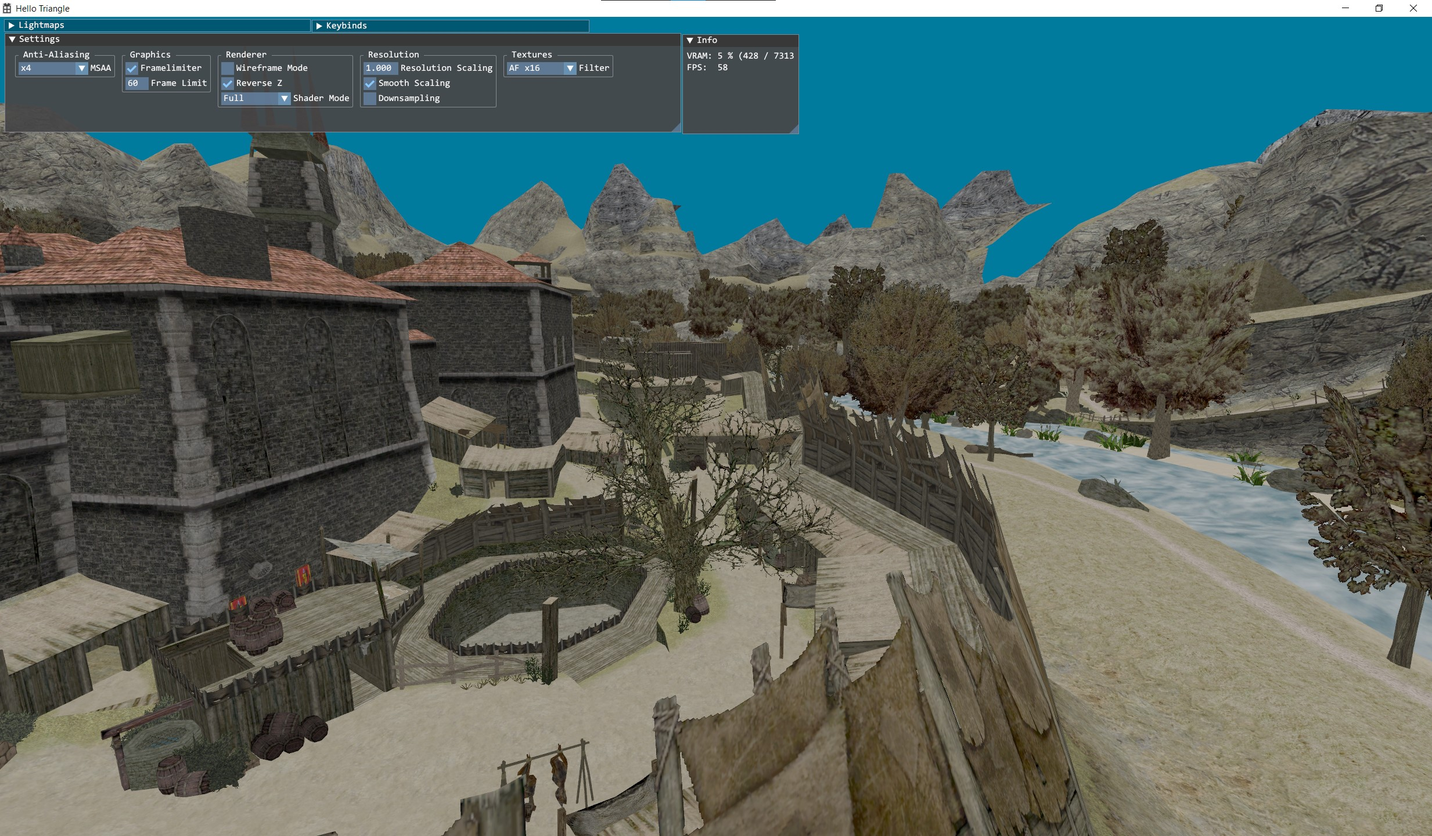
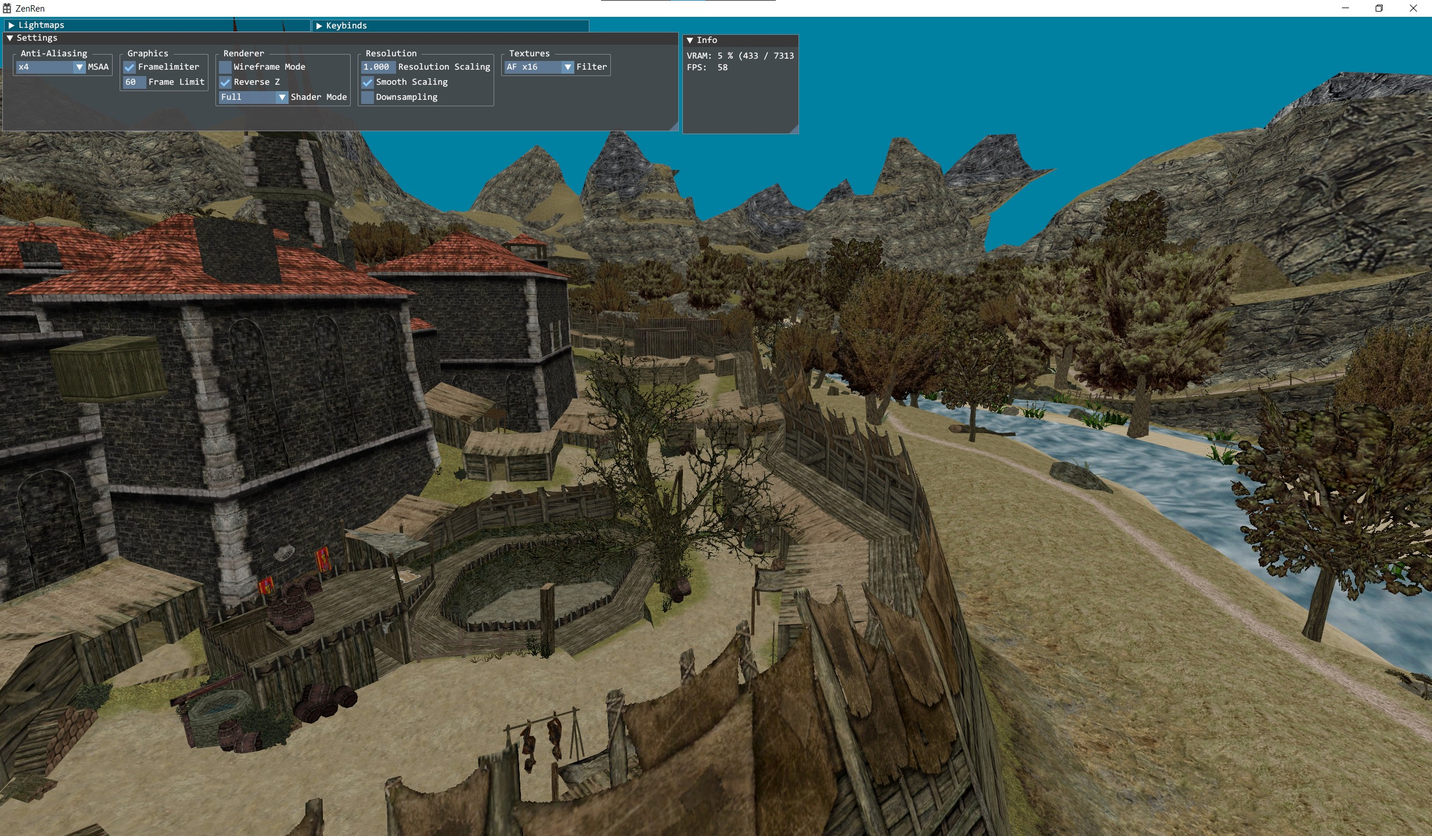
Fix Textures not being loaded as sRGB
- thanks again Andre :)

diff --git a/ZenRen/src/renderer/Texture.cpp b/ZenRen/src/renderer/Texture.cpp
@@ -76,7 +76,7 @@ namespace renderer {
 		metadata.arraySize = images.size();
 
 		// TODO
-		// It is unclear it MipMaps work here.
+		// It is unclear if MipMaps work here.
 		// We should instead write Image to DDS raw memory (see https://stackoverflow.com/questions/76144325/convert-any-input-dds-into-another-dds-format-in-directxtex)
 		// and then load raw memory with CreateDDSTextureFromMemory (see https://github.com/Microsoft/DirectXTK/wiki/DDSTextureLoader)
 
@@ -91,7 +91,15 @@ namespace renderer {
 		return resourceView;
 	}
 
-	Texture::Texture(D3d d3d, const std::string& sourceFile)
+	void createSetSrv(D3d d3d, const ScratchImage& image, const std::string& name, bool sRgb, ID3D11ShaderResourceView** ppSrv) {
+		auto sRgbFlag = sRgb ? DirectX::CREATETEX_FORCE_SRGB : DirectX::CREATETEX_IGNORE_SRGB;
+		auto hr = DirectX::CreateShaderResourceViewEx(
+			d3d.device, image.GetImages(), image.GetImageCount(), image.GetMetadata(),
+			D3D11_USAGE::D3D11_USAGE_DEFAULT, D3D11_BIND_SHADER_RESOURCE, 0, 0, sRgbFlag, ppSrv);
+		throwOnError(hr, name);
+	}
+
+	Texture::Texture(D3d d3d, const std::string& sourceFile, bool sRgb)
 	{
 		auto name = sourceFile;
 		util::asciiToLower(name);
@@ -101,7 +109,7 @@ namespace renderer {
 		TexMetadata metadata;
 
 		if (util::endsWith(name, ".tga")) {
-			hr = LoadFromTGAFile(sourceFileW.c_str(), &metadata, image);
+			hr = LoadFromTGAFile(sourceFileW.c_str(), DirectX::TGA_FLAGS_NONE, &metadata, image);
 			throwOnError(hr, name);
 		}
 		else if (util::endsWith(name, ".png")) {
@@ -111,11 +119,10 @@ namespace renderer {
 
 		createMipmapsIfMissing(&image, name);
 
-		hr = CreateShaderResourceView(d3d.device, image.GetImages(), image.GetImageCount(), image.GetMetadata(), &resourceView);
-		throwOnError(hr, name);
+		createSetSrv(d3d, image, name, sRgb, &resourceView);
 	}
 
-	Texture::Texture(D3d d3d, std::vector<uint8_t>& ddsRaw, bool isGothicZTex, const std::string& name)
+	Texture::Texture(D3d d3d, std::vector<uint8_t>& ddsRaw, bool isGothicZTex, const std::string& name, bool sRgb)
 	{
 		HRESULT hr;
 		DirectX::ScratchImage image;
@@ -124,7 +131,9 @@ namespace renderer {
 		throwOnError(hr, name);
 
 		if (isGothicZTex) {
-			// GPU does not support zTex DDS format as render target, so mipmap generation would fail.
+			// GPU does not support zTex DDS format (DXGI_FORMAT_BC1_UNORM) as render target, so mipmap generation would fail.
+			// TODO it might be better to either force ARGB conversion during convertZTEX2DDS or with flag during LoadFromDDSMemory.
+			// This would potentially allow mip map recreation
 			if (!hasExpectedMipmapCount(&image, true)) {
 				LOG(WARNING) << "Texture Load Warning: Incorrect number of Mipmaps found! " << name;
 			}
@@ -133,8 +142,7 @@ namespace renderer {
 			createMipmapsIfMissing(&image, name);
 		}
 
-		hr = DirectX::CreateShaderResourceView(d3d.device, image.GetImages(), image.GetImageCount(), metadata, &resourceView);
-		throwOnError(hr, name);
+		createSetSrv(d3d, image, name, sRgb, &resourceView);
 	}
 
 	Texture::~Texture()

diff --git a/ZenRen/src/renderer/Texture.h b/ZenRen/src/renderer/Texture.h
@@ -9,8 +9,8 @@ namespace renderer {
 	class Texture
 	{
 	public:
-		Texture(D3d d3d, const std::string& sourceFile);
-		Texture(D3d d3d, std::vector<uint8_t>& ddsRaw, bool isGothicZTex, const std::string& name);
+		Texture(D3d d3d, const std::string& sourceFile, bool sRgb = true);
+		Texture(D3d d3d, std::vector<uint8_t>& ddsRaw, bool isGothicZTex, const std::string& name, bool sRgb = true);
 		~Texture();
 		ID3D11ShaderResourceView* GetResourceView();
 	private:

diff --git a/ZenRen/src/renderer/PipelineWorld.cpp b/ZenRen/src/renderer/PipelineWorld.cpp
@@ -163,6 +163,7 @@ namespace renderer::world {
 				Texture* texture = new Texture(d3d, lightmap.ddsRaw, false, "lightmap_xxx");
 				debugTextures.push_back(texture);
 			}
+			// TODO it is totally unclear if these should be loaded as sRGB or linear!
 			lightmapTexArray = createShaderTexArray(d3d, ddsRaws, 256, 256);
 		}
 		
